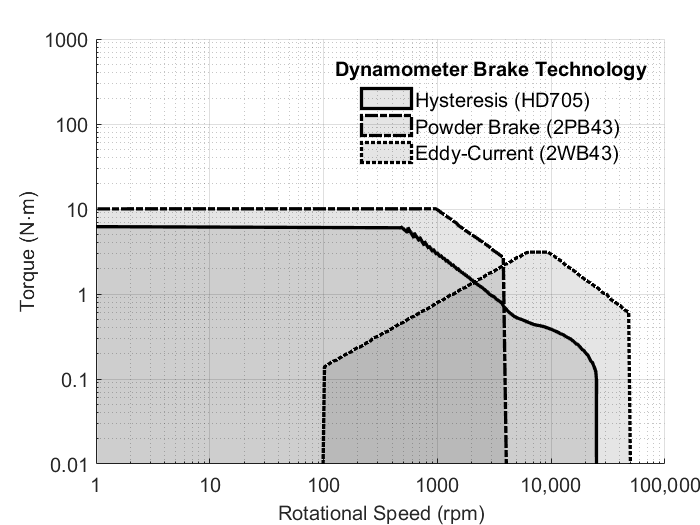
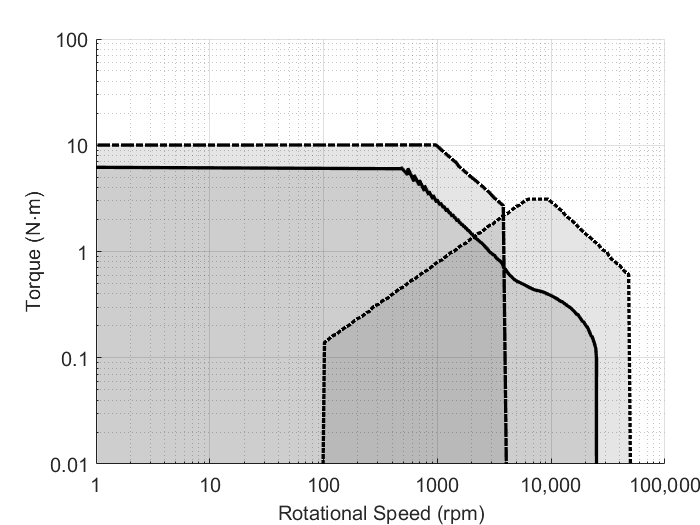
Update PyQT live plot to have up arrow generator interrupt

diff --git a/CAN/DANCANServer/PYQTGraphTest.py b/CAN/DANCANServer/PYQTGraphTest.py
@@ -1,28 +1,44 @@
 # Import libraries
-from numpy import *
+from numpy import linspace
 from pyqtgraph.Qt import QtGui, QtCore, QtWidgets
 import pyqtgraph as pg
 import serial
 import can
 import cantools
 import os
+import serial.tools.list_ports
 
 os.chdir(os.path.dirname(os.path.abspath(__file__)))
+ports = list(serial.tools.list_ports.comports())
+for port in ports:
+    if 'USB-SERIAL CH340' in port.description:
+        com_port = port.device
+        break
+else:
+    raise Exception("USB-SERIAL CH340 not found")
 
 ### START QtApp #####
 app = QtWidgets.QApplication([])            # you MUST do this once (initialize things)
 ####################
 
-win = pg.GraphicsLayoutWidget(show=True, title="Signal from serial port") # creates a window
-p = win.addPlot(title="Realtime plot")  # creates empty space for the plot in the window
-curve = p.plot()                        # create an empty "plot" (a curve to plot)
+win = pg.GraphicsLayoutWidget(show=True, title="Dyno Realtime") # creates a window
 
-windowWidth = 500                       # width of the window displaying the curve
-Xm = linspace(0,0,windowWidth)          # create array that will contain the relevant time series     
-ptr = -windowWidth                      # set first x position
+# First plot
+p1 = win.addPlot(title="M.U.T Current")  # creates empty space for the first plot in the window
+curve1 = p1.plot()                         # create an empty "plot" (a curve to plot)
+
+# Second plot
+win.nextRow()                              # move to the next row in the layout
+p2 = win.addPlot(title="Generator Current")  # creates empty space for the second plot in the window
+curve2 = p2.plot()                         # create an empty "plot" (a curve to plot)
+
+windowWidth = 500                          # width of the window displaying the curve
+Xm1 = linspace(0, 0, windowWidth)          # create array that will contain the relevant time series for plot 1
+Xm2 = linspace(0, 0, windowWidth)          # create array that will contain the relevant time series for plot 2
+ptr = -windowWidth                         # set first x position
 
 can_bus = can.interface.Bus(interface='seeedstudio',
-                            channel='COM4',
+                            channel=com_port,
                             baudrate=2000000,
                             bitrate=500000)
 
@@ -34,18 +50,37 @@ tester.start()
 
 # Realtime data plot. Each time this function is called, the data display is updated
 def update():
-    global curve, ptr, Xm
+    global ptr, Xm1, Xm2
     tester.send('VESC_Command_RPM_V1', {'Command_RPM_V1': 1500})
-    tester.send('VESC_Command_AbsHBrakeCurrent_V2', {'Command_HBrakeCurrent_V2': 1})
-    status = tester.expect('VESC_Status1_V1', None, timeout=.1, discard_other_messages=True)
-    status2 = tester.expect('VESC_Status1_V2', None, timeout=.1, discard_other_messages=True)
+    status1 = tester.expect('VESC_Status1_V1', None, timeout=.01, discard_other_messages=True)
+    status2 = tester.expect('VESC_Status1_V2', None, timeout=.01, discard_other_messages=True)
+    #print(status2)
+    if status1 is not None:
+        plotGraph(curve1, Xm1, status1, 'Status_TotalCurrent_V1')
+    if status2 is not None:
+        plotGraph(curve2, Xm2, status2, 'Status_TotalCurrent_V2')
+
+def plotGraph(curve, Xm, status, key):
+    global ptr
+    status[key] /= 10
     Xm[:-1] = Xm[1:]                      # shift data in the temporal mean 1 sample left
-    value = status2[2]                    # read line (single value) from the serial port
+    value = status[key]                   # read line (single value) from the serial port
     Xm[-1] = float(value)                 # vector containing the instantaneous values      
     ptr += 1                              # update x position for displaying the curve
     curve.setData(Xm)                     # set the curve with this data
-    curve.setPos(ptr,0)                   # set x position in the graph to 0
-    QtWidgets.QApplication.processEvents()    # you MUST process the plot now
+    curve.setPos(ptr, 0)                  # set x position in the graph to 0
+    QtWidgets.QApplication.processEvents() # you MUST process the plot now
+
+class KeyPressHandler(QtCore.QObject):
+    def eventFilter(self, obj, event):
+        if event.type() == QtCore.QEvent.KeyPress:
+            if event.key() == QtCore.Qt.Key_Up:
+                tester.send('VESC_Command_DutyCycle_V2', {'Command_DutyCycle_V2': 0.2})
+                return True
+        return super().eventFilter(obj, event)
+
+keyPressHandler = KeyPressHandler()
+app.installEventFilter(keyPressHandler)
 
 ### MAIN PROGRAM #####    
 # this is a brutal infinite loop calling your realtime data plot

diff --git a/CAN/DANCANServer/test.py b/CAN/DANCANServer/test.py
@@ -6,13 +6,23 @@
 import os
 import can
 import matplotlib.pyplot as plt
+import serial.tools.list_ports
 import cantools
 import time
 
 os.chdir(os.path.dirname(os.path.abspath(__file__)))
+ports = list(serial.tools.list_ports.comports())
+for port in ports:
+    if 'USB-SERIAL CH340' in port.description:
+        com_port = port.device
+        break
+else:
+    raise Exception("USB-SERIAL CH340 not found")
+
+print(f"Found USB-SERIAL CH340 on {com_port}")
 
 can_bus = can.interface.Bus(interface='seeedstudio',
-                            channel='COM4',
+                            channel=com_port,
                             baudrate=2000000,
                             bitrate=500000)
 
@@ -23,10 +33,11 @@ tester = cantools.tester.Tester('VESC1',
 tester.start()
 
 while True:
-    tester.send('VESC_Command_RPM_V1', {'Command_RPM_V1': 1500})
-    tester.send('VESC_Command_AbsHBrakeCurrent_V2', {'Command_HBrakeCurrent_V2': 1})
-    # status = tester.expect('VESC_Status1_V1', None, timeout=.1, discard_other_messages=True)
-    # status2 = tester.expect('VESC_Status1_V2', None, timeout=.1, discard_other_messages=True)
-    # print('VESC1: {Status_RPM_V1} rpm, {Status_TotalCurrent_V1}A'.format(**status)) 
-    # print('VESC2: {Status_RPM_V2} rpm, {Status_TotalCurrent_V2}A'.format(**status2)) 
+    tester.send('VESC_Command_RPM_V1', {'Command_RPM_V1': 1000})
+    time.sleep(.5)
+    status = tester.expect('VESC_Status1_V1', None, timeout=.1, discard_other_messages=True)
+    if status is not None:
+        status['Status_TotalCurrent_V1'] /= 10
+        print('VESC1: {Status_RPM_V1} rpm, {Status_TotalCurrent_V1}A'.format(**status))
+
 

diff --git a/MagtrolStuff/DatasheetScraper.m b/MagtrolStuff/DatasheetScraper.m
@@ -51,17 +51,17 @@ xlabel("Rotational Speed (rpm)");
 ylabel("Torque (N\cdot{}m)");
 grid on
 grid minor
-lgd = legend(["Hysteresis (HD705)","Powder Brake (2PB43)","Eddy-Current (2WB43)"],'Location','northeast',"box","off");
-title(lgd,'Dynamometer Brake Technology')
+%lgd = legend(["Hysteresis (HD705)","Powder Brake (2PB43)","Eddy-Current (2WB43)"],'Location','northeast',"box","off");
+%title(lgd,'Dynamometer Brake Technology')
 
 xlim([10^0, 10^5])
-ylim([10^-2, 10^3])
+ylim([10^-2, 10^2])
 
 % Set tick values and labels
 xticks([1, 10, 100, 1000, 10000, 100000])
 xticklabels({'1', '10', '100', '1000', '10,000', '100,000'})
-yticks([0.01, 0.1, 1, 10, 100, 1000])
-yticklabels({'0.01', '0.1', '1', '10', '100', '1000'})
+yticks([0.01, 0.1, 1, 10, 100])
+yticklabels({'0.01', '0.1', '1', '10', '100'})
 
 % Set logarithmic scales
 set(gca, 'XScale', 'log')
